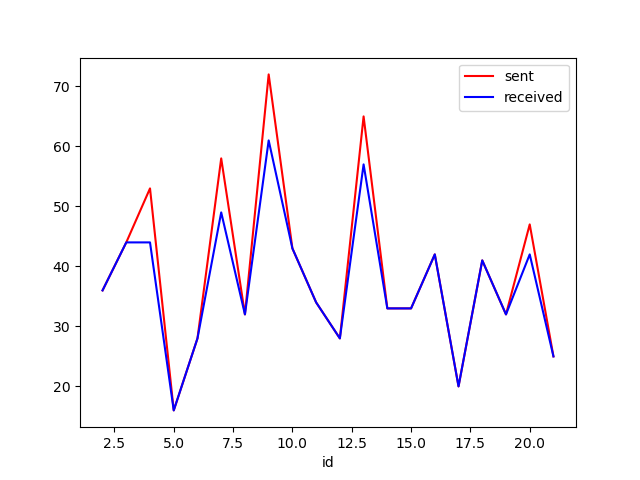
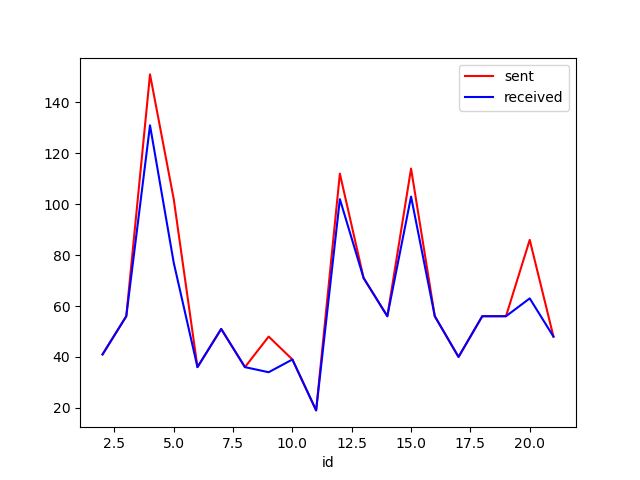
fix DE

diff --git a/optimizationreport.py b/optimizationreport.py
@@ -9,7 +9,7 @@ import matplotlib.pyplot  as plt
 from mpl_toolkits import mplot3d
 import numpy as np
 
-df = pd.read_csv("report/old/DE best 2020.csv")
+df = pd.read_csv("report/DE best 2020-10-10.csv")
 df.sort_values(by=['energy'], inplace=True)
 
 print(df)
@@ -36,10 +36,10 @@ def convertvar(df):
         dfv = dfv.append(pd.Series([(L[0]),(L[1]),(L[2]),(L[3]),df['energy'][index],df['duration'][index],df['lost'][index],df['dead'][index],sumduration], index=dfv.columns),ignore_index=True)
 
     print(dfv)
-    dfv.to_csv('report/2020.csv')
+    dfv.to_csv('report/optimizationreport.csv')
 
-#convertvar(df)
-dfv2 =pd.read_csv('report/old/DE best variables2020.csv')
+convertvar(df)
+dfv2 =pd.read_csv('report/optimizationreport.csv')
 
 
 

diff --git a/optimizationrunDE.py b/optimizationrunDE.py
@@ -134,7 +134,7 @@ def function(x):
      a = run(x)
      global df
      df = df.append(pd.Series([x,a[0],a[1],a[2],a[3]], index=df.columns), ignore_index=True)
-     print("choromosome ",x,a[0],a[1])
+     print("choromosome ",x," remaining energy: ",a[0])
      return a[0]
 
 
@@ -172,7 +172,7 @@ def de(fuctuion, mut=0.8, crossp=0.9, popsize=population_num, its=50):
         best_idx = np.argmax(fitness)# find min or max
         #print("index of best",best_idx)
         best = popnp[best_idx]
-        print("best chromosome",best , best_idx)
+        print("\n Best chromosome",best , best_idx)
 
         for i in range(its):
 
